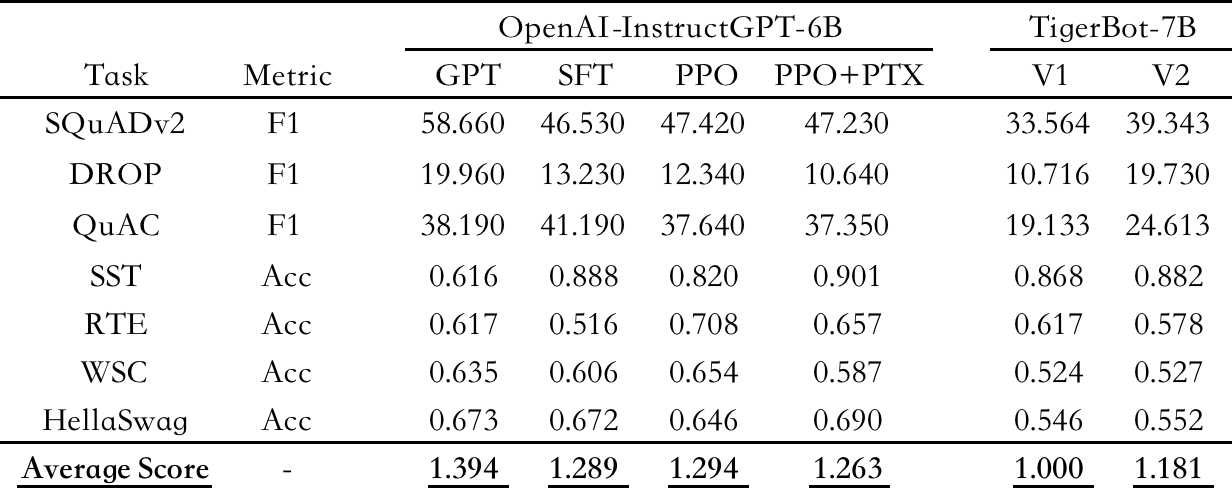
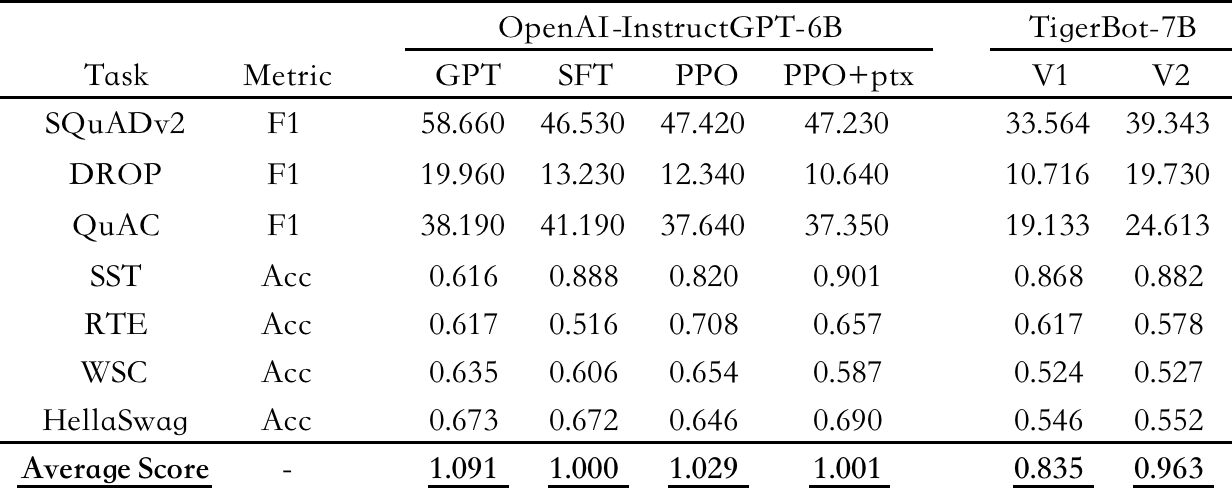
modify eval

diff --git a/README.md b/README.md
@@ -234,7 +234,7 @@ CUDA_VISIBLE_DEVICES=0,1 python infer ${MODEL_DIR} --wbits 4 --groupsize 128 --l
 
 ## 测评
 
-在 7 项传统 NLP 任务上进行，并以 TigerBot-7B-V1 为基准，归一化并平均各模型的得分，结果如下：
+在7项传统NLP任务上进行模型测评，以OpenAI-InstructGPT-6B-SFT为基准，归一化并平均各模型的得分，结果如下：
 
 ![image](image/auto-valuation.png)
 
